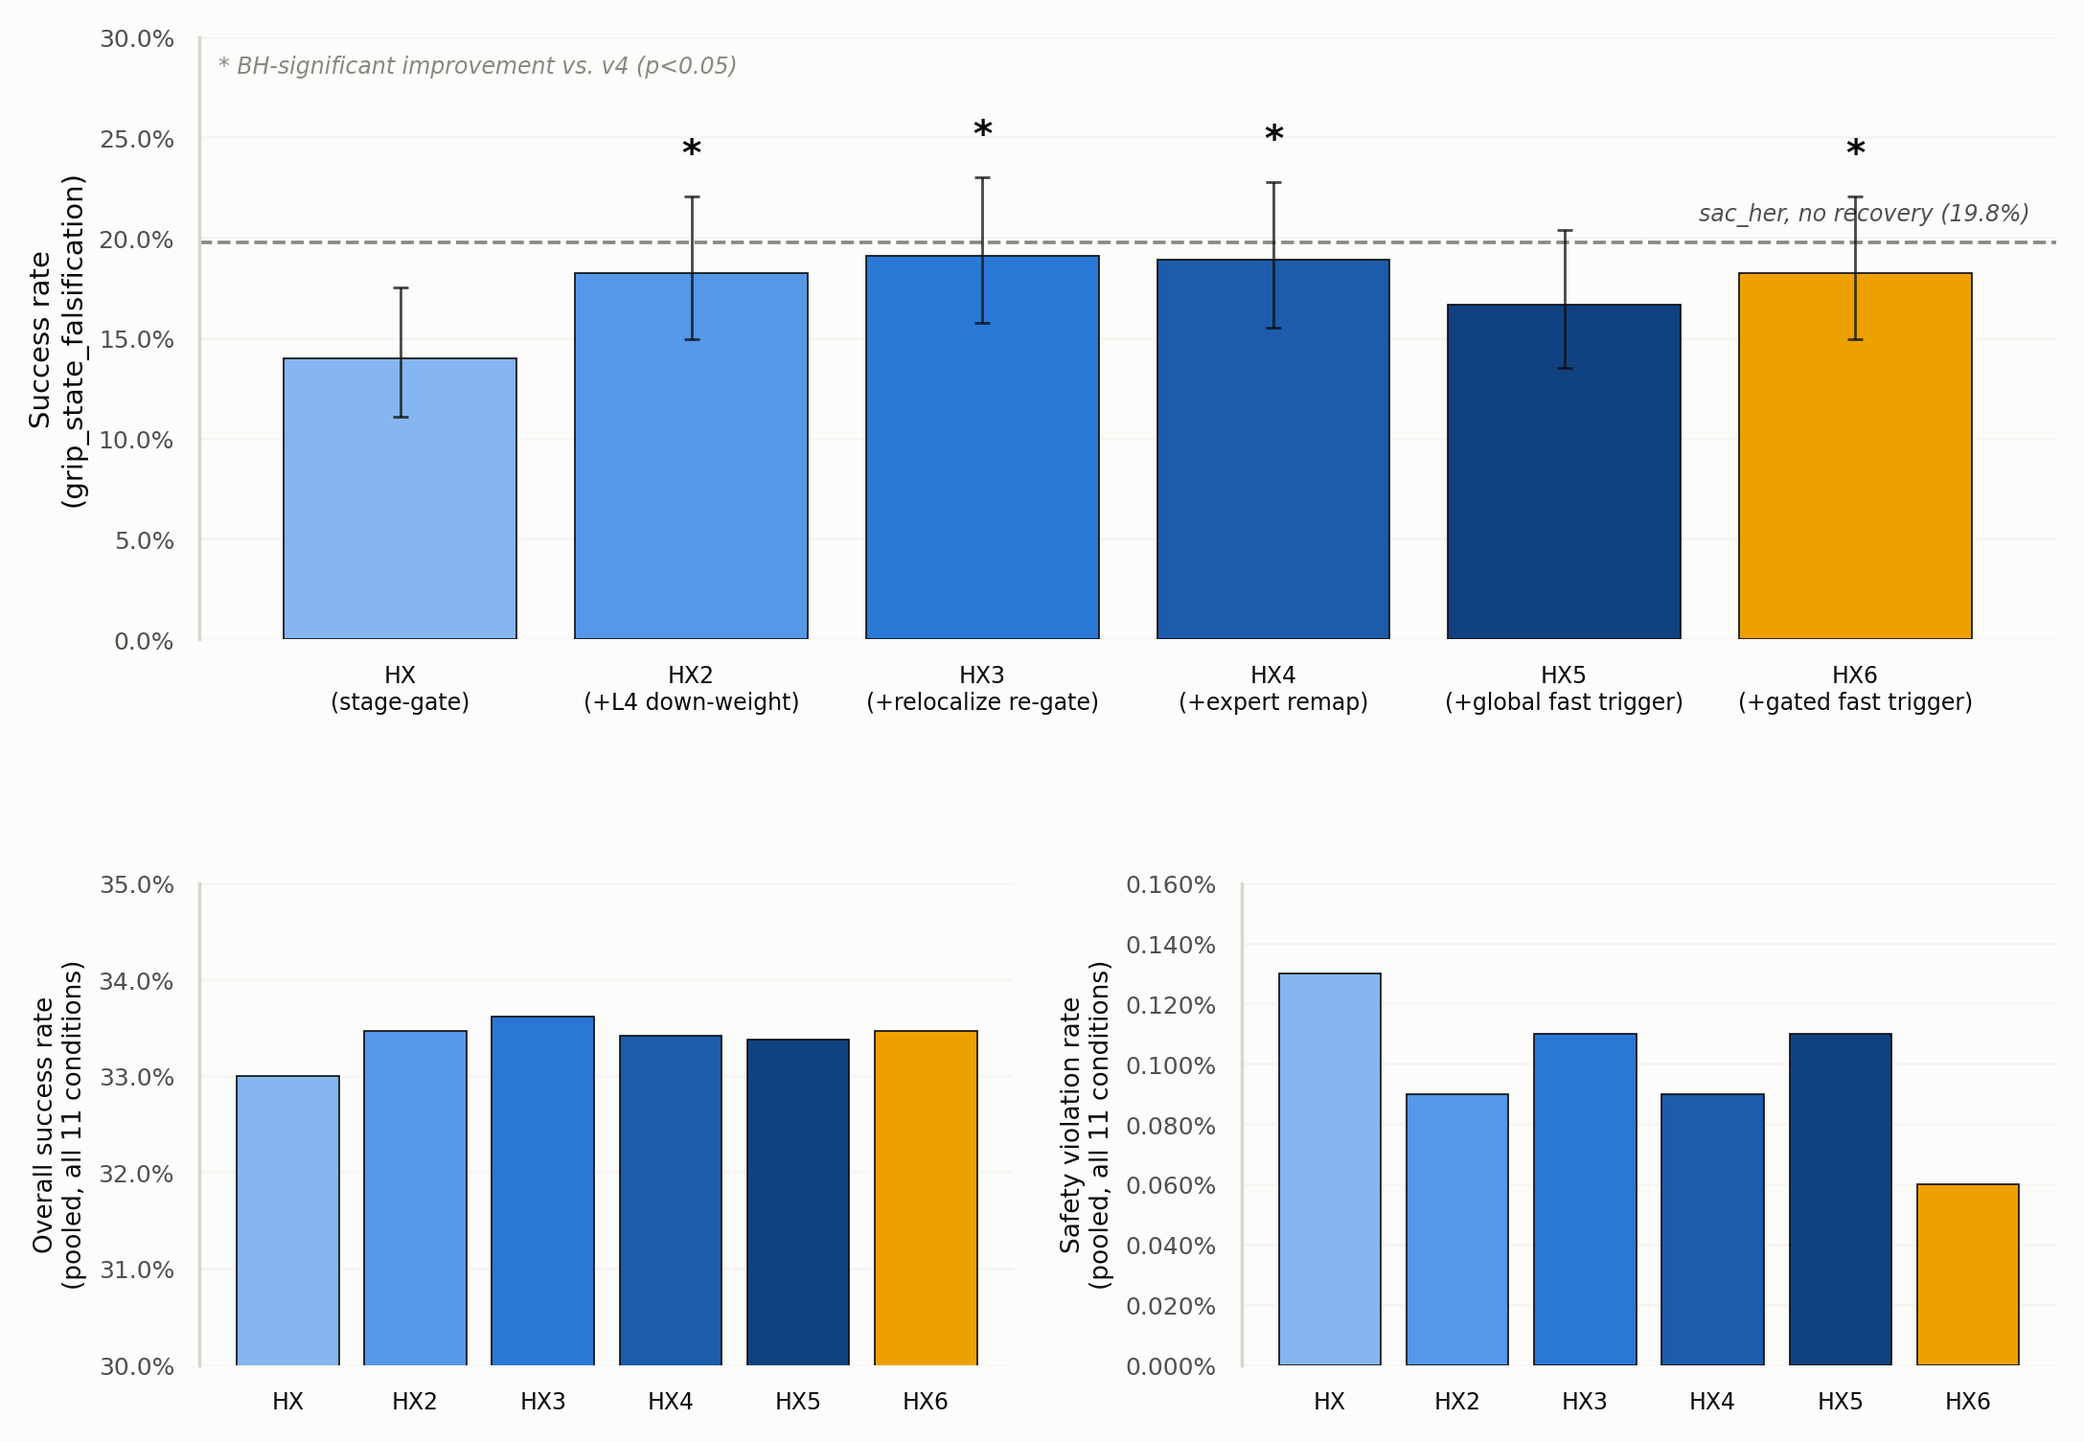
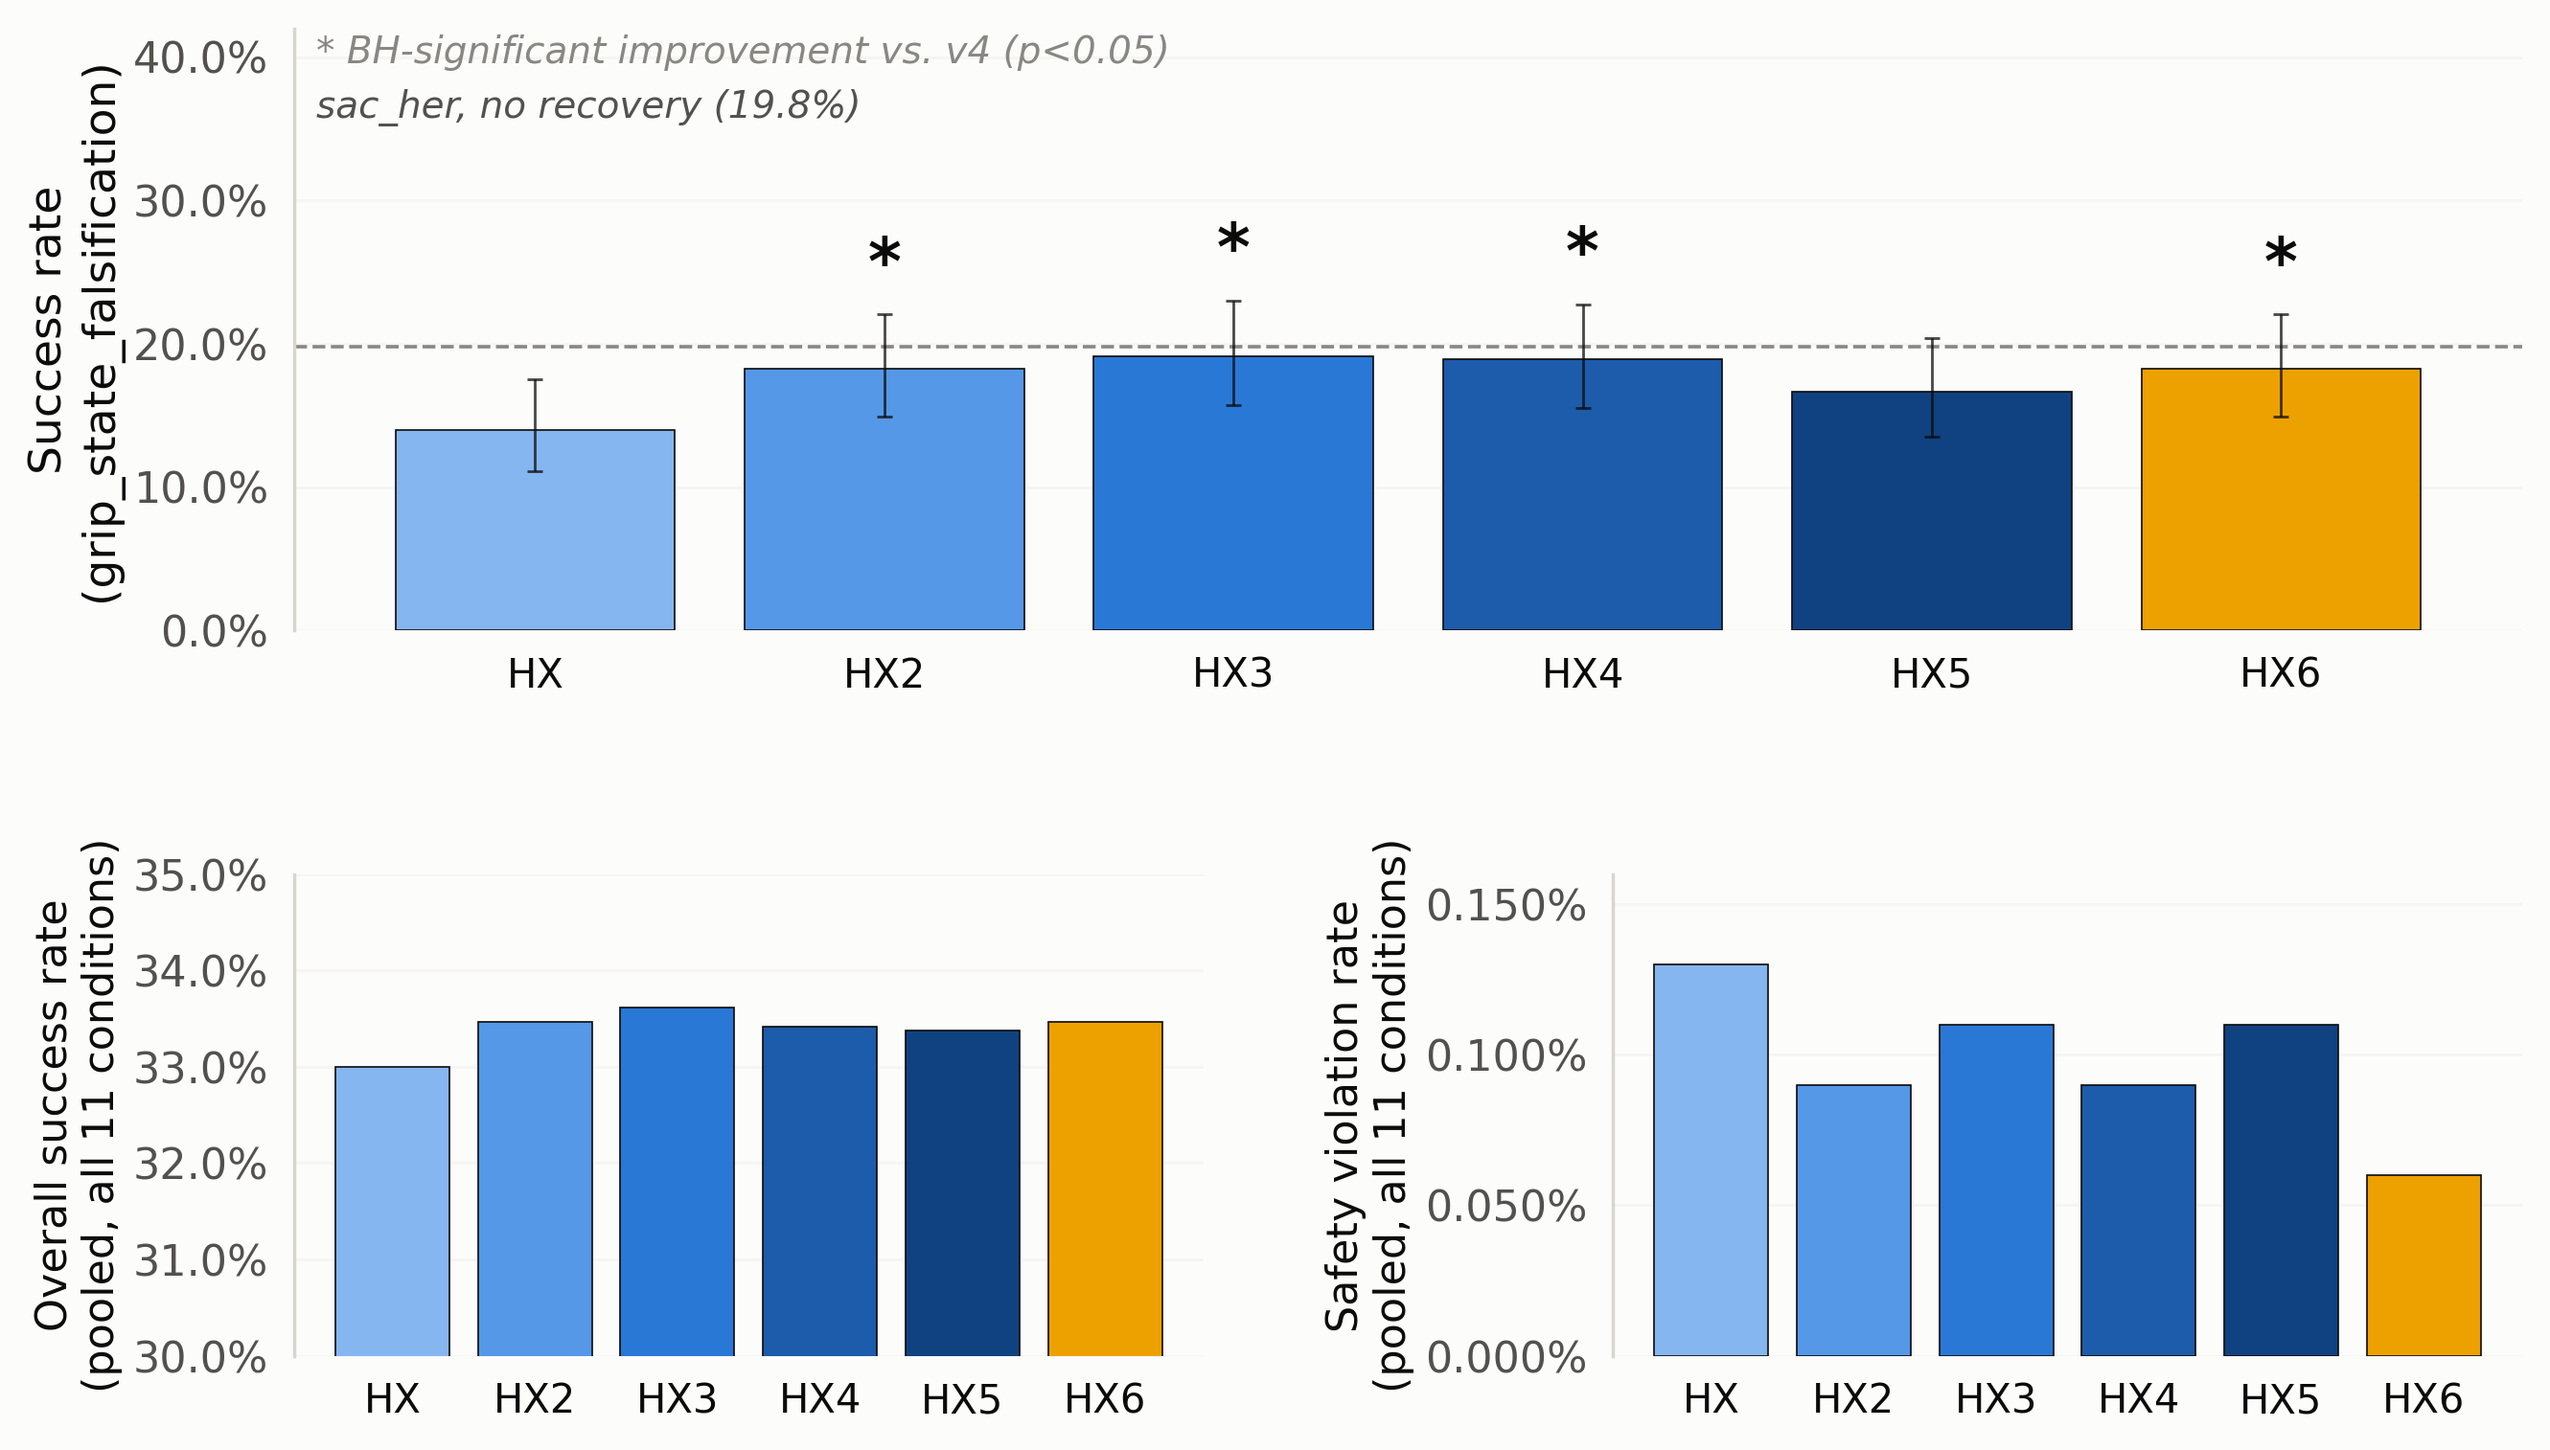
added vertical figures

Changed region(s): [[0.0, 0.5934, 0.9857, 0.9993], [0.0, 0.0, 0.9549, 0.4997]]

diff --git a/scripts/build_hx_all_variants_seaborn_figure.py b/scripts/build_hx_all_variants_seaborn_figure.py
@@ -220,51 +220,86 @@ def _bar(ax, df, x_col, y_col, order, ref_line=None, ref_label=None,
         for bar, sig, yhi in zip(bars, sub[star_col], sub[y_col] if "ci_hi" not in sub.columns else sub["ci_hi"]):
             if sig:
                 ax.text(bar.get_x() + bar.get_width() / 2, yhi + 0.012, "*",
-                        ha="center", va="bottom", fontsize=14, color=INK_PRIMARY, fontweight="bold")
+                        ha="center", va="bottom", fontsize=24, color=INK_PRIMARY, fontweight="bold")
 
     if ref_line is not None:
         ax.axhline(ref_line, color=INK_MUTED, linewidth=1.3, linestyle="--", zorder=2)
-        ax.text(len(labels) - 0.4, ref_line + 0.008, ref_label, ha="right", va="bottom",
-                fontsize=8.5, color=INK_SECONDARY, style="italic")
+        # Stacked under the "* BH-significant..." caption (same left anchor,
+        # one line down), not next to the dashed line itself and not beside
+        # that caption -- at the larger poster font size and this column's
+        # narrow width, either placement collides: next to the line hits the
+        # error bars/stars, and side-by-side-at-the-top text is wide enough
+        # to overlap the other caption.
+        ax.text(0.01, 0.90, ref_label, transform=ax.transAxes, ha="left", va="top",
+                fontsize=14, color=INK_SECONDARY, style="italic")
 
     if pct:
         ax.yaxis.set_major_formatter(mtick.PercentFormatter(xmax=1.0))
-    ax.tick_params(axis="y", colors=INK_SECONDARY, labelsize=9)
-    ax.tick_params(axis="x", colors=INK_PRIMARY, labelsize=8.5)
+    ax.tick_params(axis="y", colors=INK_SECONDARY, labelsize=16)
+    ax.tick_params(axis="x", colors=INK_PRIMARY, labelsize=15)
     if rotate:
         plt.setp(ax.get_xticklabels(), rotation=rotate, ha="right", rotation_mode="anchor")
     ax.grid(axis="x", visible=False)
     sns.despine(ax=ax, left=False, bottom=True)
 
 
-def main() -> None:
-    grip_df = load_grip_panel()
-    sac_her_grip = load_sac_her_grip_rate()
-
-    fig = plt.figure(figsize=(12.5, 9.0))
-    gs = fig.add_gridspec(2, 2, height_ratios=[1.25, 1.0], hspace=0.45, wspace=0.28)
-    ax_grip = fig.add_subplot(gs[0, :])
-    ax_succ = fig.add_subplot(gs[1, 0])
-    ax_safe = fig.add_subplot(gs[1, 1])
-
+def _draw_all_panels(ax_grip, ax_succ, ax_safe, grip_df, sac_her_grip) -> None:
+    # short_labels=True (not the descriptive "(+L4 down-weight)" etc. labels)
+    # in both layouts now -- at the larger poster font size, the two-line
+    # descriptive labels are wide enough to overlap their neighbors even in
+    # the landscape layout. The mechanism names belong in the caption text,
+    # not packed into the x-axis, matching how Fig 2's HX/HX2/... labels
+    # already work.
     _bar(ax_grip, grip_df, "variant", "success_rate", VARIANT_ORDER,
          ref_line=sac_her_grip, ref_label=f"sac_her, no recovery ({sac_her_grip:.1%})",
-         star_col="significant_bh")
-    ax_grip.set_ylim(0, 0.30)
-    ax_grip.set_ylabel("Success rate\n(grip_state_falsification)", fontsize=10.5, color=INK_PRIMARY)
-    ax_grip.text(0.01, 0.97, "* BH-significant improvement vs. v4 (p<0.05)",
-                 transform=ax_grip.transAxes, ha="left", va="top", fontsize=8.5,
+         star_col="significant_bh", short_labels=True)
+    # Extra headroom above the highest error bar/star (~0.24) so the two
+    # stacked caption lines (axes-fraction y=0.90/0.99) have clear space and
+    # don't overlap the significance stars at the larger poster font size.
+    ax_grip.set_ylim(0, 0.42)
+    ax_grip.set_ylabel("Success rate\n(grip_state_falsification)", fontsize=17, color=INK_PRIMARY)
+    ax_grip.text(0.01, 0.99, "* BH-significant improvement vs. v4 (p<0.05)",
+                 transform=ax_grip.transAxes, ha="left", va="top", fontsize=14,
                  color=INK_MUTED, style="italic")
 
     _bar(ax_succ, OVERALL_STATS, "variant", "overall_success", VARIANT_ORDER, short_labels=True)
     ax_succ.set_ylim(0.30, 0.35)
-    ax_succ.set_ylabel("Overall success rate\n(pooled, all 11 conditions)", fontsize=9.5, color=INK_PRIMARY)
+    ax_succ.set_ylabel("Overall success rate\n(pooled, all 11 conditions)", fontsize=16, color=INK_PRIMARY)
 
     _bar(ax_safe, OVERALL_STATS, "variant", "safety_violation", VARIANT_ORDER, short_labels=True)
     ax_safe.set_ylim(0, 0.0016)
-    ax_safe.set_ylabel("Safety violation rate\n(pooled, all 11 conditions)", fontsize=9.5, color=INK_PRIMARY)
+    ax_safe.set_ylabel("Safety violation rate\n(pooled, all 11 conditions)", fontsize=16, color=INK_PRIMARY)
 
+
+def main() -> None:
+    grip_df = load_grip_panel()
+    sac_her_grip = load_sac_her_grip_rate()
+
+    # Landscape, 2x2 grid (grip panel spans the top row) -- for full-width use.
+    # Wider figure + more wspace than before -- at the larger poster font
+    # size, the safety-violation panel's y-axis label was wide enough to
+    # bleed into the success-rate panel next to it.
+    fig = plt.figure(figsize=(15.0, 9.0))
+    gs = fig.add_gridspec(2, 2, height_ratios=[1.25, 1.0], hspace=0.45, wspace=0.45)
+    ax_grip = fig.add_subplot(gs[0, :])
+    ax_succ = fig.add_subplot(gs[1, 0])
+    ax_safe = fig.add_subplot(gs[1, 1])
+    _draw_all_panels(ax_grip, ax_succ, ax_safe, grip_df, sac_her_grip)
     _savefig(fig, "fig_hx_all_variants_comparison.png", pad_inches=0.15)
+
+    # Portrait, 3 panels stacked -- for a narrow poster column, matching the
+    # same "_vertical" treatment already used for the latency figure
+    # (scripts/build_hx_all_variants_latency_figure.py). Each of the three
+    # charts now gets the figure's FULL width instead of half (succ/safe
+    # were side by side in the landscape version), consistent with how this
+    # panel sits alongside the other two (already-vertical) poster panels.
+    fig_v = plt.figure(figsize=(6.5, 12.5))
+    gs_v = fig_v.add_gridspec(3, 1, height_ratios=[1.3, 1.0, 1.0], hspace=0.5)
+    ax_grip_v = fig_v.add_subplot(gs_v[0])
+    ax_succ_v = fig_v.add_subplot(gs_v[1])
+    ax_safe_v = fig_v.add_subplot(gs_v[2])
+    _draw_all_panels(ax_grip_v, ax_succ_v, ax_safe_v, grip_df, sac_her_grip)
+    _savefig(fig_v, "fig_hx_all_variants_comparison_vertical.png", pad_inches=0.15)
 
 
 if __name__ == "__main__":

diff --git a/scripts/build_hx_all_variants_latency_figure.py b/scripts/build_hx_all_variants_latency_figure.py
@@ -160,31 +160,38 @@ def _bar(ax, df, y_col, ylabel, ylim, pct=False, annotate_n=None):
         if pd.isna(val):
             continue
         label = f"{val*100:.0f}%" if pct else f"{val:.1f}"
-        if n is not None:
-            label += f"\nn={n}/10"
+        x = bar.get_x() + bar.get_width() / 2
         y = bar.get_height()
-        ax.text(bar.get_x() + bar.get_width() / 2, y + ylim[1] * 0.015, label, ha="center", va="bottom",
-                 fontsize=8.2, color=INK_PRIMARY, fontweight="bold", linespacing=1.5)
+        # Value label and "n=x/10" as two separate text calls (not one
+        # multi-line string) so the n= sub-label can stay smaller -- at
+        # matched large font sizes, adjacent bars with close values (the
+        # response-delay panel especially) have wide enough two-line labels
+        # to collide horizontally with their neighbors.
+        ax.text(x, y + ylim[1] * 0.025, label, ha="center", va="bottom",
+                 fontsize=16, color=INK_PRIMARY, fontweight="bold")
+        if n is not None:
+            ax.text(x, y + ylim[1] * 0.13, f"n={n}/10", ha="center", va="bottom",
+                     fontsize=10.5, color=INK_SECONDARY, fontweight="normal")
 
     ax.set_ylim(*ylim)
     if pct:
         import matplotlib.ticker as mtick
         ax.yaxis.set_major_formatter(mtick.PercentFormatter(xmax=1.0))
-    ax.set_ylabel(ylabel, fontsize=10, color=INK_PRIMARY)
-    ax.tick_params(axis="y", colors=INK_SECONDARY, labelsize=9)
-    ax.tick_params(axis="x", colors=INK_PRIMARY, labelsize=10.5)
+    ax.set_ylabel(ylabel, fontsize=17, color=INK_PRIMARY)
+    ax.tick_params(axis="y", colors=INK_SECONDARY, labelsize=15)
+    ax.tick_params(axis="x", colors=INK_PRIMARY, labelsize=16)
     ax.grid(axis="x", visible=False)
     sns.despine(ax=ax, left=False, bottom=True)
 
 
 def _draw_all_panels(ax_det, ax_resp, ax_trig, agg: pd.DataFrame) -> None:
     _bar(ax_det, agg, "detection_delay",
-         "Detection delay (steps)\nattack onset -> first trigger", ylim=(0, 30))
+         "Detection delay (steps)\nattack onset -> first trigger", ylim=(0, 32))
     _bar(ax_resp, agg, "response_delay",
-         "Response delay (steps)\nfirst trigger -> full authority (w>=0.5)", ylim=(0, 100),
+         "Response delay (steps)\nfirst trigger -> full authority (w>=0.5)", ylim=(0, 112),
          annotate_n="response_n_conditions")
     _bar(ax_trig, agg, "trigger_rate",
-         "Trigger rate\n(share of attacked episodes)", ylim=(0, 1.08), pct=True)
+         "Trigger rate\n(share of attacked episodes)", ylim=(0, 1.14), pct=True)
 
 
 def main() -> None:
@@ -193,18 +200,22 @@ def main() -> None:
     print(agg.to_string())
 
     # Landscape, 3 panels side by side -- for full-width use (paper figure).
-    fig, (ax_det, ax_resp, ax_trig) = plt.subplots(1, 3, figsize=(15.5, 5.6))
+    fig, (ax_det, ax_resp, ax_trig) = plt.subplots(1, 3, figsize=(18.0, 6.2))
     _draw_all_panels(ax_det, ax_resp, ax_trig, agg)
-    fig.tight_layout()
+    fig.tight_layout(w_pad=2.2)
     _savefig(fig, "fig_hx_all_variants_latency.png")
 
     # Portrait, 3 panels stacked -- for a narrow poster column. Each panel
-    # gets the figure's FULL width now (not a third of it), so the same
-    # short-code x-labels have far more breathing room per bar than in the
-    # landscape layout above.
-    fig_v, (ax_det_v, ax_resp_v, ax_trig_v) = plt.subplots(3, 1, figsize=(6.0, 9.5))
+    # gets the figure's FULL width now (not a third of it). Wider + taller
+    # than before, with explicit hspace (not just tight_layout's h_pad) --
+    # at the larger poster font size, the rotated multi-line y-axis label on
+    # one panel was tall enough to overlap the x-tick labels of the panel
+    # above it.
+    fig_v, (ax_det_v, ax_resp_v, ax_trig_v) = plt.subplots(3, 1, figsize=(8.5, 15.5))
     _draw_all_panels(ax_det_v, ax_resp_v, ax_trig_v, agg)
-    fig_v.tight_layout(h_pad=1.6)
+    # top<1.0 reserves margin above the first panel -- its rotated multi-line
+    # y-axis label was tall enough to clip against the figure's top edge.
+    fig_v.subplots_adjust(hspace=0.55, left=0.20, top=0.95, bottom=0.04)
     _savefig(fig_v, "fig_hx_all_variants_latency_vertical.png")
 
 
